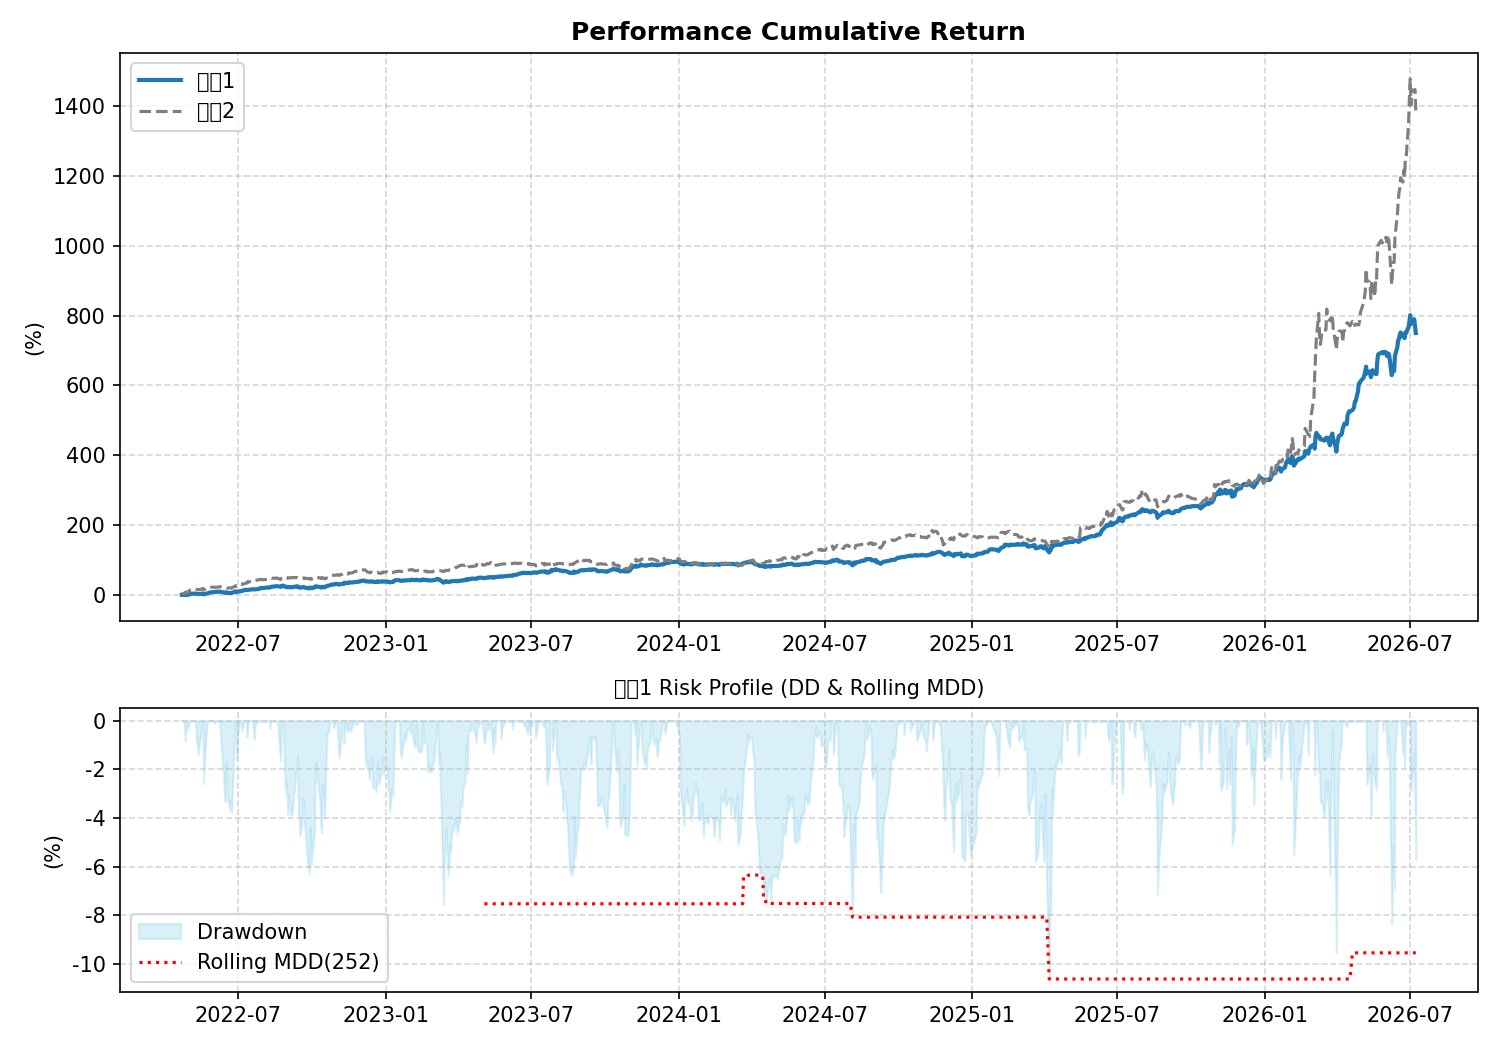
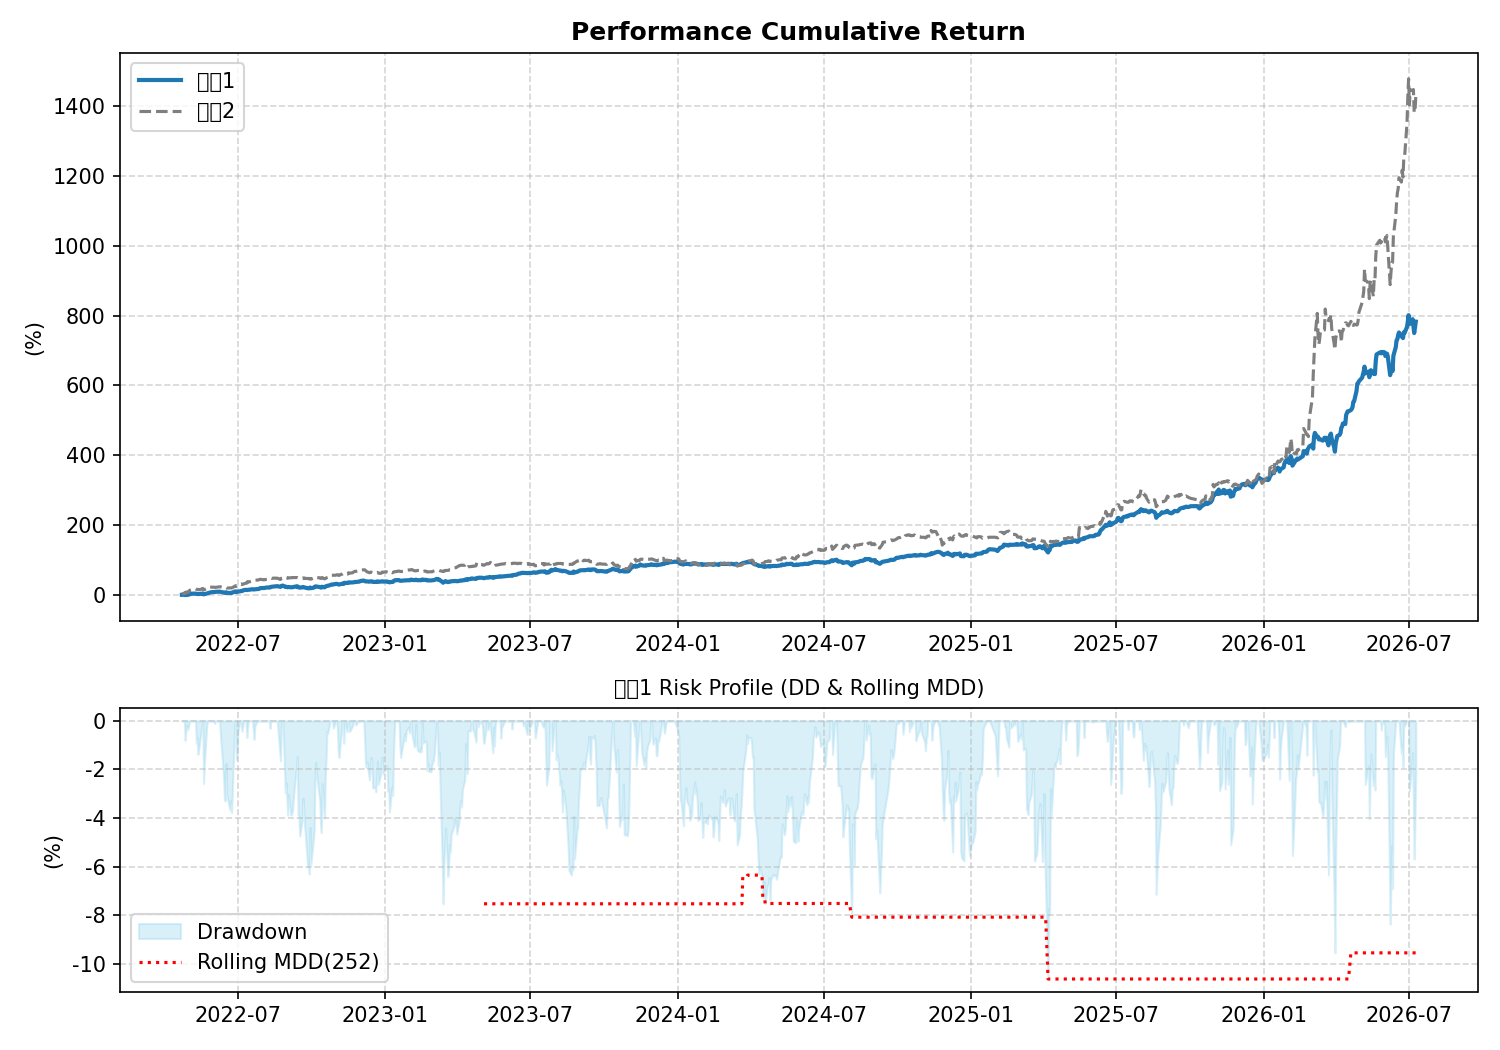
Auto commit

diff --git a/_pages/st_stock_future.md b/_pages/st_stock_future.md
@@ -1,7 +1,7 @@
 ---
 title: 전략테스트(주식선물)
 author: Best Investor
-date: 2026-07-08 16:36:49
+date: 2026-07-10 16:05:17
 category: Jekyll
 layout: post
 mermaid: true
@@ -15,13 +15,13 @@ parent: 포트폴리오
 
 | 지표 | 전략 1 (S1) | 전략 2 (S2) | 차이 (Diff) |
 | :--- | :---: | :---: | :---: |
-| **30일 수익률** | 7.04% | 32.82% | -25.78% |
-| **1년 수익률** | 181.26% | 340.33% | -159.07% |
-| **전체 수익률** | 750.13% | 1382.45% | -632.32% |
+| **30일 수익률** | 11.52% | 37.81% | -26.29% |
+| **1년 수익률** | 186.89% | 343.89% | -157.0% |
+| **전체 수익률** | 782.77% | 1430.19% | -647.42% |
 | **MDD (1Y)** | -9.56% | -12.67% | 3.11%p |
 | **MDD (ALL)** | **-10.63%** | **-16.06%** | 5.43%p |
-| **샤프 (1Y)** | 4.07 | 3.6 | 0.47 |
-| **샤프 (ALL)** | **2.89** | **2.45** | 0.44 |
+| **샤프 (1Y)** | 4.13 | 3.62 | 0.51 |
+| **샤프 (ALL)** | **2.93** | **2.47** | 0.46 |
 
 ## 📉 누적 성과 및 리스크 차트
 1. **최근 30일:** ![30일](/img_st/st2_stockfuture_cum_risk_30d.png)

diff --git a/_posts/signal/2026-04-01-signal.md b/_posts/signal/2026-04-01-signal.md
@@ -7,6 +7,18 @@ category: Jekyll
 ---
 ## 시그널  
 
+### 📊 2026-07-13 Morning Trading Signal
+
+- 📅 날짜: 2026-07-13  
+- ⏰ 시간: 08:45  
+- 🧾 종목: **-**  
+- ⏸️ 포지션: **No Trade**
+
+##### 🧭 Execution Plan
+- 🚀 진입: No Action
+- 🎯 청산: No Action
+
+
 ### 📊 2026-07-10 Afternoon Trading Signal
 
 - 📅 날짜: 2026-07-10  